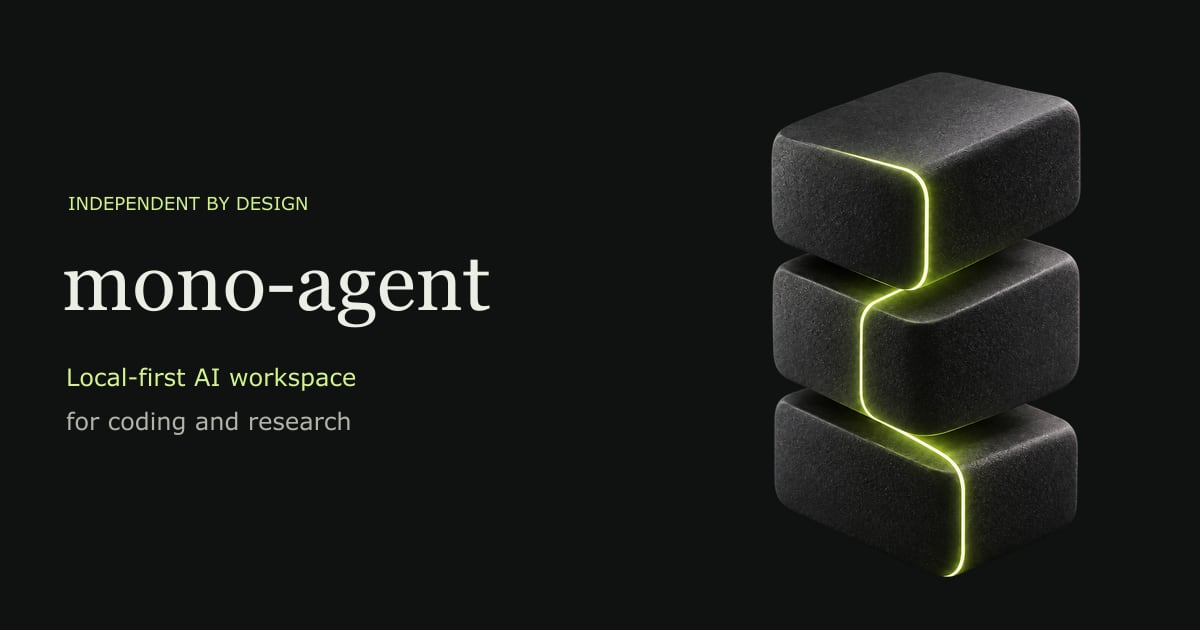
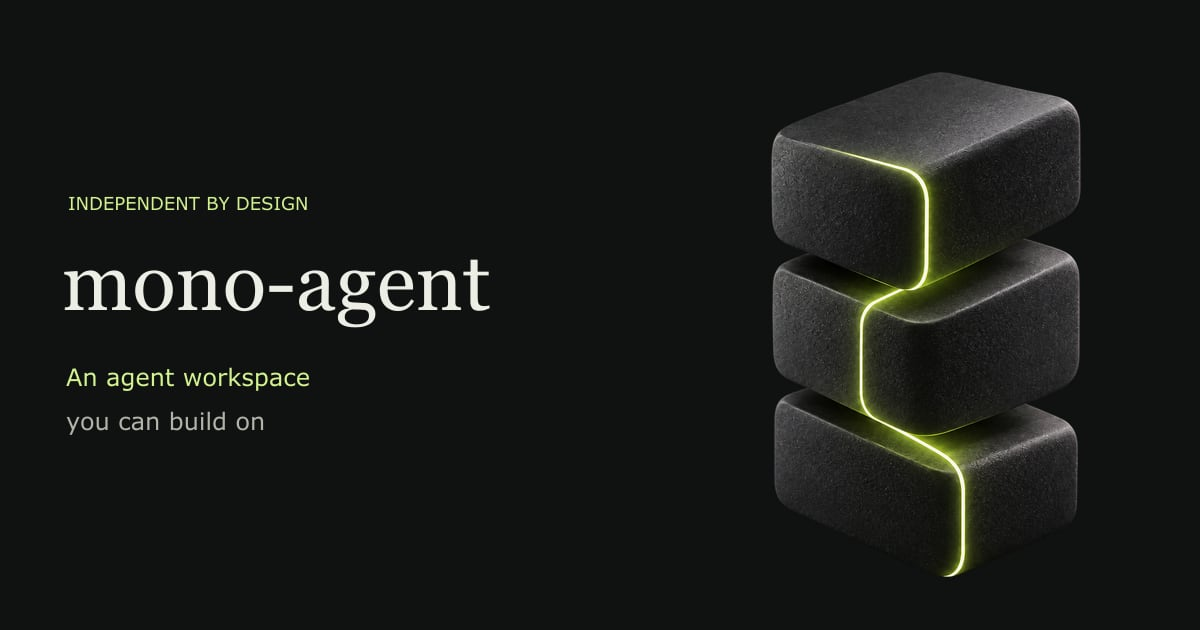
Position Mono as an extensible agent workspace

Changed region(s): [[0.0617, 0.573, 0.3083, 0.6937]]

diff --git a/marketing/tests/site.browser.spec.ts b/marketing/tests/site.browser.spec.ts
@@ -44,7 +44,7 @@ for (const viewport of VIEWPORTS) {
       await page.goto("/", { waitUntil: "networkidle" });
       await expect(
         page.getByRole("heading", {
-          name: "Your agents. Your models. Your workspace.",
+          name: "An agent workspace you can build on.",
         }),
       ).toBeVisible();
     });
@@ -241,7 +241,7 @@ test('building blocks stay readable and disclose source availability', async ({p
   await expect(blocks.locator('.block-links a')).toHaveCount(12);
   await expect(blocks).toContainText('Subagents');
   await expect(blocks).toContainText('Background jobs');
-  await expect(blocks).toContainText('current source build');
+  await expect(blocks).toContainText('v0.22.0');
 });
 test('desktop console stays sharp and uncropped on phones', async ({page}) => {
   await page.setViewportSize({width:390,height:844}); await page.goto('/');
@@ -591,11 +591,41 @@ test('native deck scroll does not remeasure card widths per frame', async ({page
 });
 test('FAQ heading has breathing room and opened answers stay separated', async ({page}) => {
   await page.setViewportSize({width:390,height:844}); await page.goto('/#faq'); await page.evaluate(()=>document.fonts.ready);
-  const heading=await page.locator('#faq-heading').boundingBox();
-  const first=page.locator('.faq details').first(); const closed=await first.boundingBox();
-  expect(closed!.y-heading!.y-heading!.height).toBeGreaterThanOrEqual(24);
-  await first.locator('summary').click();
-  const answer=await first.locator('.faq-answer').boundingBox();
-  const next=await page.locator('.faq details').nth(1).boundingBox();
-  expect(next!.y).toBeGreaterThanOrEqual(answer!.y+answer!.height);
+  // Read relative geometry in one frame: Safari can still be scrolling to
+  // the hash between separate boundingBox calls even after fonts are ready.
+  const gap = await page.evaluate(() => {
+    const heading = document.querySelector('#faq-heading')!.getBoundingClientRect();
+    const first = document.querySelector('.faq details')!.getBoundingClientRect();
+    return first.top - heading.bottom;
+  });
+  expect(gap).toBeGreaterThanOrEqual(24);
+  await page.locator('.faq details').first().locator('summary').click();
+  const answerGap = await page.evaluate(() => {
+    const answer = document.querySelector('.faq details .faq-answer')!.getBoundingClientRect();
+    const next = document.querySelectorAll('.faq details')[1].getBoundingClientRect();
+    return next.top - answer.bottom;
+  });
+  expect(answerGap).toBeGreaterThanOrEqual(0);
 });
+
+for (const width of [390, 1440]) {
+  test(`workspace proof and TypeScript excerpt remain readable at ${width}px`, async ({page}) => {
+    await page.setViewportSize({width, height: 1000});
+    await page.goto('/');
+    await page.evaluate(() => document.fonts.ready);
+    const proof = page.locator('#why');
+    await expect(proof.locator('article')).toHaveCount(3);
+    await expect(proof).toContainText('Project context feeds');
+    await expect(proof).toContainText('persistent subagent');
+    await expect(proof).toContainText('retained tool results');
+    const excerpt = page.locator('.composition-code');
+    await excerpt.scrollIntoViewIfNeeded();
+    await expect(excerpt).toBeVisible();
+    const bounds = await excerpt.evaluate(el => ({left: el.getBoundingClientRect().left, right: el.getBoundingClientRect().right, width: el.clientWidth, content: el.scrollWidth}));
+    expect(bounds.left).toBeGreaterThanOrEqual(0);
+    expect(bounds.right).toBeLessThanOrEqual(width);
+    expect(bounds.content).toBeLessThanOrEqual(bounds.width);
+    await expect(page.getByRole('link', {name: 'Imports & full example'})).toHaveAttribute('href', 'https://mono-agent-docs.vercel.app/programmatic/composition/');
+    await expect(page.locator('.blocks-note')).toContainText('v0.22.0');
+  });
+}

diff --git a/marketing/public/styles.css b/marketing/public/styles.css
@@ -677,6 +677,12 @@ pre {
 .console-benefits p {
   font-size:var(--text-support)
 }
+.console-benefits article>a {
+  display:inline-block;
+  margin-top:14px;
+  font-size:var(--text-label);
+  color:var(--ink)
+}
 .text-link {
   font-size:var(--text-support);
   color:var(--ink);
@@ -1318,3 +1324,8 @@ pre {
   .comparison-more summary { padding:18px 14px }
   .comparison-more summary span { display:block;margin:6px 0 0 16px }
 }
+
+/* A real composition seam, presented as a compact excerpt, not a fake editor. */
+.composition-code { margin:18px 0 10px; padding:16px; border:1px solid var(--line); border-radius:8px; background:var(--bg); font-size:12px; line-height:1.7; white-space:pre-wrap; overflow-wrap:anywhere; color:var(--ink) }
+.harness-row .composition-caption { font-size:var(--text-label); line-height:1.65 }
+.harness-row dd { min-width:0 }

diff --git a/marketing/README.md b/marketing/README.md
@@ -12,15 +12,18 @@ existing docs site is secondary.
   so it never enters the root `pnpm -r build`, `pnpm -r test`, release graph,
   or `check:architecture`. Install and build it on its own, following the
   `website/` precedent.
-- **Content is authored in `src/pages/index.astro`.** The hero and the major
-  `#configuration` section make `mono-agent.config.json` the central visual
-  thesis, then connect its runtime, context, memory, tools, and channel blocks
-  to the framework/package composition story. The displayed example is valid
+- **Content is authored in `src/pages/index.astro`.** The hero leads with an agent workspace you can build on: shared project context,
+  delegated work, retained execution evidence, and TypeScript composition. The major
+  `#configuration` section makes `mono-agent.config.json` the visible blueprint
+  behind those benefits. The displayed example is valid
   JSON and its keys/types are checked against the generated app schema. Every
   claim must be source-grounded; source-only showcases must be explicitly
   labelled and linked to release availability. The honesty rules live in a comment at
   the top of that file — read them before editing copy.
-  `docs/reference/release-status.md` is the boundary reference: never present
+  The v0.22.0 release notes and published app/web tarballs confirm projects, tags,
+  and persistent subagents are released (checked 2026-09-20). The repository
+  `docs/reference/release-status.md` still describes the older 0.21.1 boundary;
+  do not repeat its stale source-only labels for these capabilities. Never present
   source-only capabilities as published, never promise setup speed or security properties, and never present
   the brand artwork as a screenshot.
 - **Artwork is decorative.** The transparent matte basalt-stone stack
@@ -48,7 +51,9 @@ existing docs site is secondary.
 The configuration blueprint and twelve linked building blocks are server-rendered,
 including the caveats that identity/skills/MCP files, secrets/auth, and runtime
 state remain separate. It is a readable example, not a fake editor or a deploy
-control. A source-linked comparison puts Hermes and OpenClaw alongside Mono Agent,
+control. The workspace proof sequence is organize, delegate, inspect. A TypeScript
+composition excerpt names the configured responder; it is not a runnable app and links
+the imports and complete integration example. A source-linked comparison puts Hermes and OpenClaw alongside Mono Agent,
 then covers Codex CLI, Claude Code, and OpenCode in a native disclosure. It compares documented focus, not
 feature absence, exclusivity, or benchmark performance. All comparison content is
 server-rendered. The enhancement script handles the menu, deck, and copy command;

diff --git a/CHANGELOG.md b/CHANGELOG.md
@@ -20,6 +20,10 @@
   Shorter CTAs, a single-line JSON caption, consistent FAQ spacing, and a tighter
   mobile deck reduce clutter; cached geometry and compositor transform updates
   avoid repeated card measurements during scrolling.
+  Position the site around ongoing agent work and TypeScript composition, with
+  shared project context, delegated work, and retained execution evidence as
+  concrete benefits. Keep the JSON blueprint prominent, compare architectural
+  approaches honestly, and correct availability labels against v0.22.0.
   Source only; the site is not deployed yet.
 
 - Let `WebSearch` request an optional ISO country localization preference,
